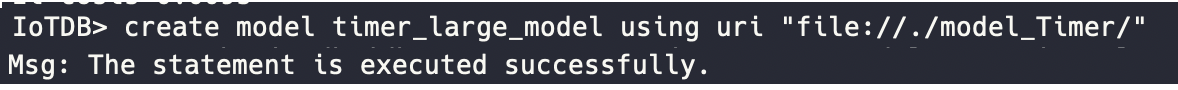
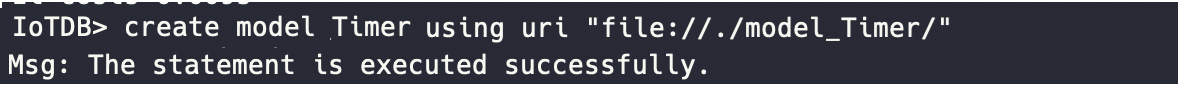
modify png and note

Changed region(s): [[0.3362, 0.1556, 0.9779, 0.4667], [0.275, 0.1778, 0.3056, 0.4]]

diff --git a/src/UserGuide/Master/Tree/User-Manual/AINode_timecho.md b/src/UserGuide/Master/Tree/User-Manual/AINode_timecho.md
@@ -465,7 +465,7 @@ In the result set, each row's label corresponds to the output of the anomaly det
 
 ![](/img/ainode-timer-3.png)
 
-Note: Do not rename the Timer model. The model name must be Timer; renaming it will cause the Workbench to fail to recognize the model.
+Note: When importing the Timer model, the name must be set to "Timer"; otherwise, it will not be recognized by the visualization console.
 
 ## 5. Privilege Management
 

diff --git a/src/UserGuide/latest/User-Manual/AINode_timecho.md b/src/UserGuide/latest/User-Manual/AINode_timecho.md
@@ -465,7 +465,7 @@ In the result set, each row's label corresponds to the output of the anomaly det
 
 ![](/img/ainode-timer-3.png)
 
-Note: Do not rename the Timer model. The model name must be Timer; renaming it will cause the Workbench to fail to recognize the model.
+Note: When importing the Timer model, the name must be set to "Timer"; otherwise, it will not be recognized by the visualization console.
 
 ## 5. Privilege Management
 

diff --git a/src/zh/UserGuide/Master/Tree/User-Manual/AINode_timecho.md b/src/zh/UserGuide/Master/Tree/User-Manual/AINode_timecho.md
@@ -460,7 +460,7 @@ Total line number = 4
 
 ![](/img/ainode-timer-3.png)
 
-注意：操作Timer模型导入不要改名，模型名称就叫Timer，改名会导致workbench上识别不到
+注意：导入 Timer 模型时名称需命名为“Timer”，否则无法被可视化控制台识别。
 
 ## 5. 权限管理
 

diff --git a/src/zh/UserGuide/latest/User-Manual/AINode_timecho.md b/src/zh/UserGuide/latest/User-Manual/AINode_timecho.md
@@ -460,7 +460,7 @@ Total line number = 4
 
 ![](/img/ainode-timer-3.png)
 
-注意：操作Timer模型导入不要改名，模型名称就叫Timer，改名会导致workbench上识别不到
+注意：导入 Timer 模型时名称需命名为“Timer”，否则无法被可视化控制台识别。
 
 ## 5. 权限管理
 
